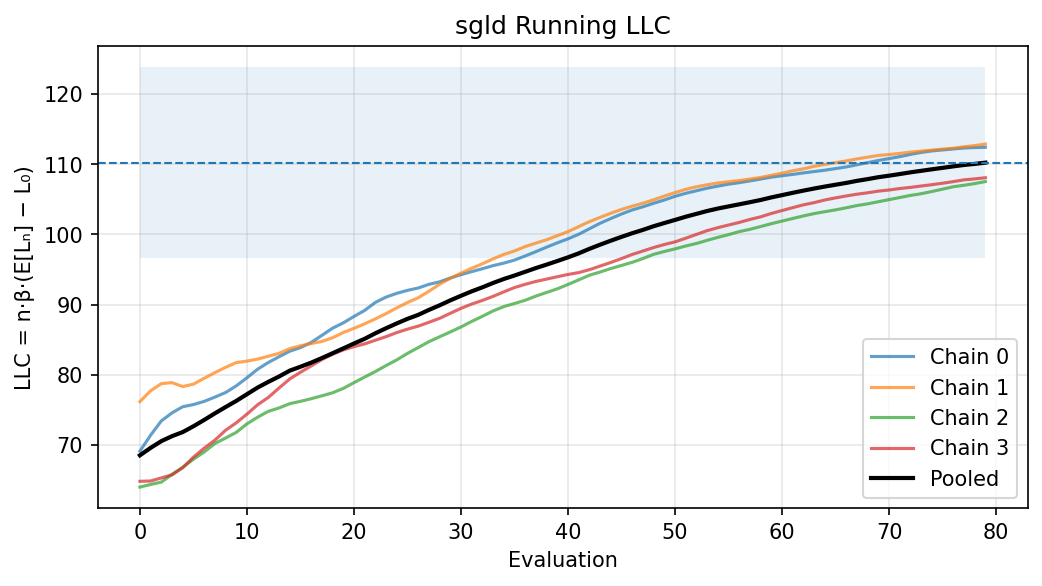
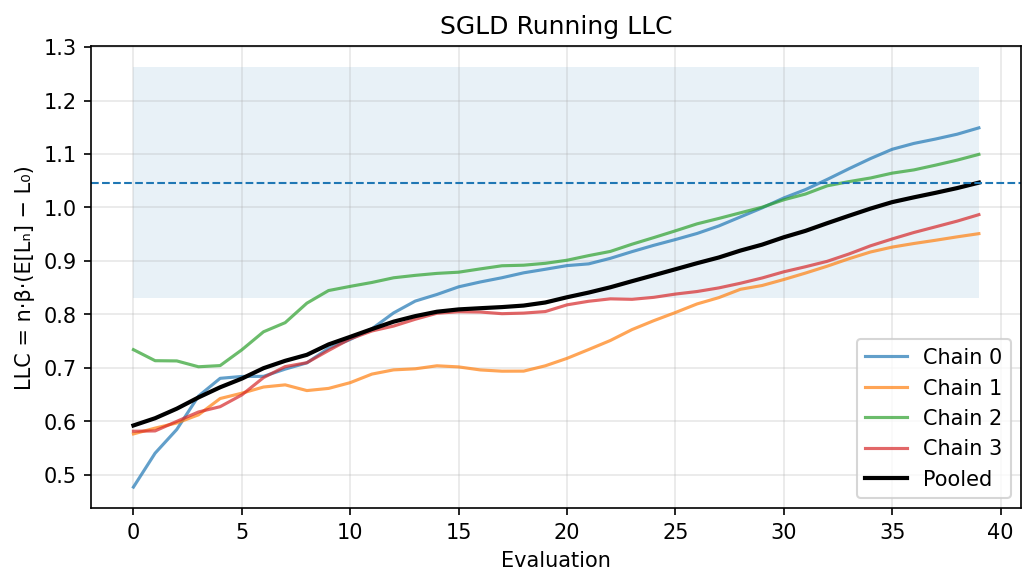
fix: improve asset generation and add README plots
- Fix fig_energy to handle missing sample_stats gracefully
- Update asset generation script to use quadratic target for reliability
- Generate README assets: running LLC plots, autocorr, energy, and theta traces
- Skip MCLMC in asset generation due to tuner issues on small problems
- Add generated diagnostic plots to assets/readme/

🤖 Generated with [Claude Code](https://claude.ai/code)

diff --git a/scripts/make_readme_assets.py b/scripts/make_readme_assets.py
@@ -80,11 +80,11 @@ def main():
     os.environ.setdefault("JAX_PLATFORMS", "cpu")
 
     base = apply_preset(Config(), "quick")
-    # Use a tiny quadratic or DLN target for speed; uncomment one:
-    # base = override_config(base, {"target": "quadratic", "quad_dim": 16})
-    base = override_config(base, {"target": "mlp"})  # default small MLP in quick preset
+    # Use a tiny quadratic target for speed and reliability
+    base = override_config(base, {"target": "quadratic", "quad_dim": 16})
 
-    for sampler in ("sgld", "hmc", "mclmc"):
+    # Skip MCLMC for now due to tuner issues on small problems
+    for sampler in ("sgld", "hmc"):
         print(f"Running {sampler.upper()}...")
         run_and_promote(sampler, base)
 

diff --git a/llc/analysis.py b/llc/analysis.py
@@ -237,7 +237,7 @@ def fig_autocorr_llc(idata):
 
 def fig_energy(idata):
     """Energy plot if available."""
-    if "energy" not in idata.sample_stats:
+    if not hasattr(idata, 'sample_stats') or "energy" not in idata.sample_stats:
         return None
     E = idata.sample_stats["energy"].values
     fig, ax = plt.subplots(1, 1, figsize=(6, 3))
